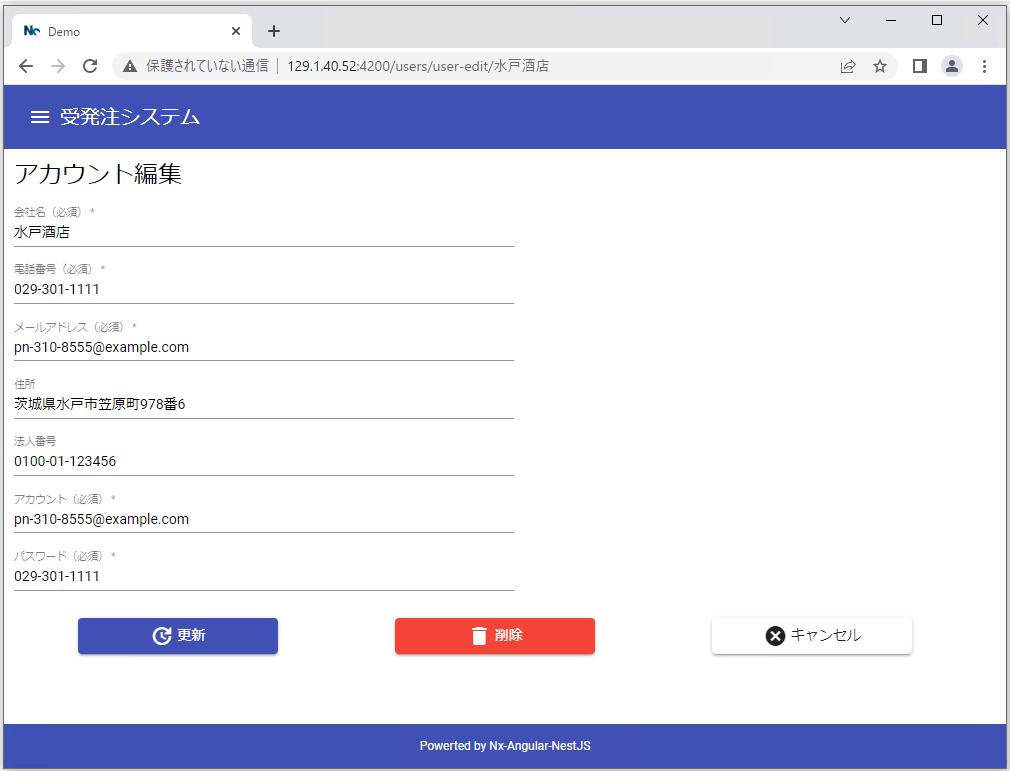
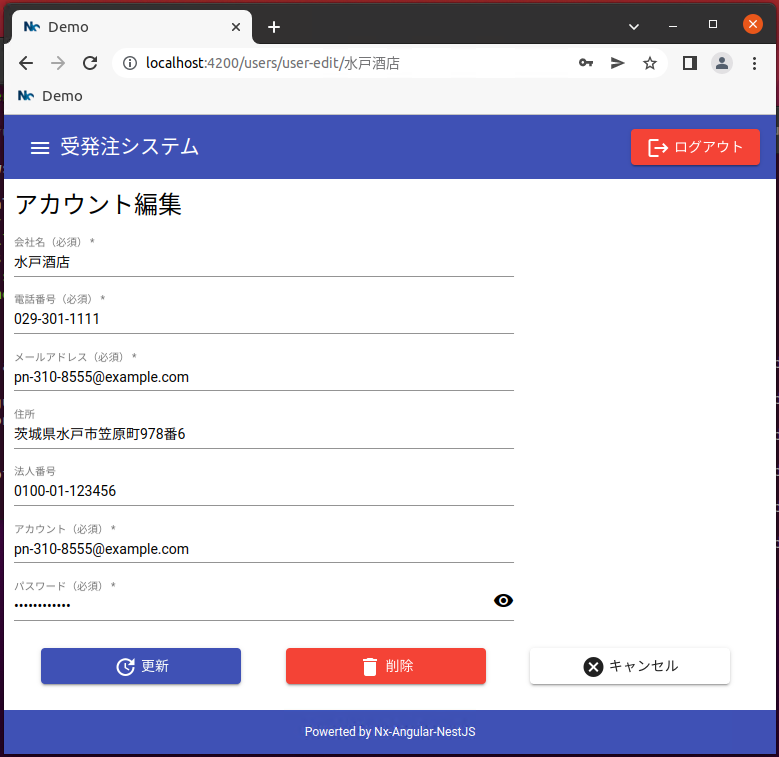
3rd step commit

Changed region(s): [[0.0, 0.0, 1.0, 1.0], [0.3697, 0.79, 0.6778, 0.9115], [0.7394, 0.8203, 0.8935, 0.9115]]

diff --git a/apps/demo/src/app/shared/header/header.component.ts b/apps/demo/src/app/shared/header/header.component.ts
@@ -1,4 +1,5 @@
 import { Component, OnInit } from '@angular/core';
+import { ActivatedRoute, Router } from '@angular/router';
 
 import { HeaderService } from './header.service';
 
@@ -10,6 +11,8 @@ import { HeaderService } from './header.service';
 export class HeaderComponent implements OnInit {
 
   constructor(
+    private route: ActivatedRoute,
+    private router: Router,
     public header: HeaderService) { }
 
   ngOnInit(): void { }

diff --git a/apps/demo/src/app/shared/header/header.component.html b/apps/demo/src/app/shared/header/header.component.html
@@ -5,5 +5,12 @@
     </button>
     <span>受発注システム</span>
     <span class="spacer"></span>
+
+    <!-- ボタン -->
+    <button class="navi-button" type="button" mat-raised-button color="warn"
+      matTooltip="本システムからログアウトします。" [routerLink]="['/login']">
+    <mat-icon>logout</mat-icon>
+    ログアウト
+  </button>
   </mat-toolbar>
 </div>

diff --git a/README.md b/README.md
@@ -1,6 +1,8 @@
 # nx-demo
 Nx (Angular-NestJS monorepo) サンプル
 
+<img src="https://github.com/watana-h/nx-demo/blob/main/doc/login.png" width="600">
+
 <img src="https://github.com/watana-h/nx-demo/blob/main/doc/user-list.png" width="600">
 
 <img src="https://github.com/watana-h/nx-demo/blob/main/doc/user-edit.png" width="600">
@@ -11,10 +13,17 @@ Angular-NestJS お勉強で作成したサンプルアプリです。
 - バックエンド
   - フロントエンドからのリクエストを受けて CSV 管理されている情報一覧をレスポンスする
 - フロントエンド
-  - Header, Main Content, Footer 構成
-  - 一覧表示時にバックエンドから情報一覧を取得してテーブル表示
-  - Angular Material - Table Component、列ヘッダーでのソート 
-  - 一覧から対象リンクで編集画面に遷移
+  - ワイヤーフレーム
+    - Header, Main Content, Footer 構成
+  - 画面構成
+    - ログイン画面
+    - アカウント一覧
+    - アカウント編集
+  - 画面遷移
+    - ログイン画面で[ログイン]→アカウント一覧
+    - アカウント一覧画面の一覧[左列リンク]→アカウント編集
+    - アカウント編集画面[キャンセル]→アカウント一覧
+    - Header左端[ログアウト]→ログイン画面
 
 ## 実行手順
 ### 事前準備
